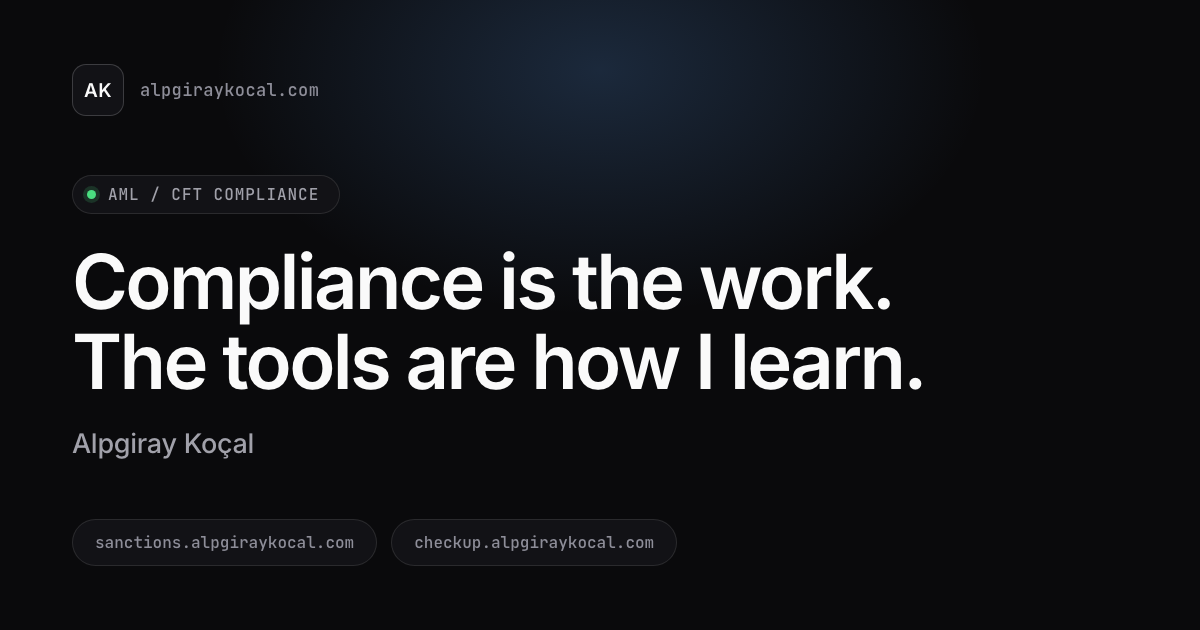
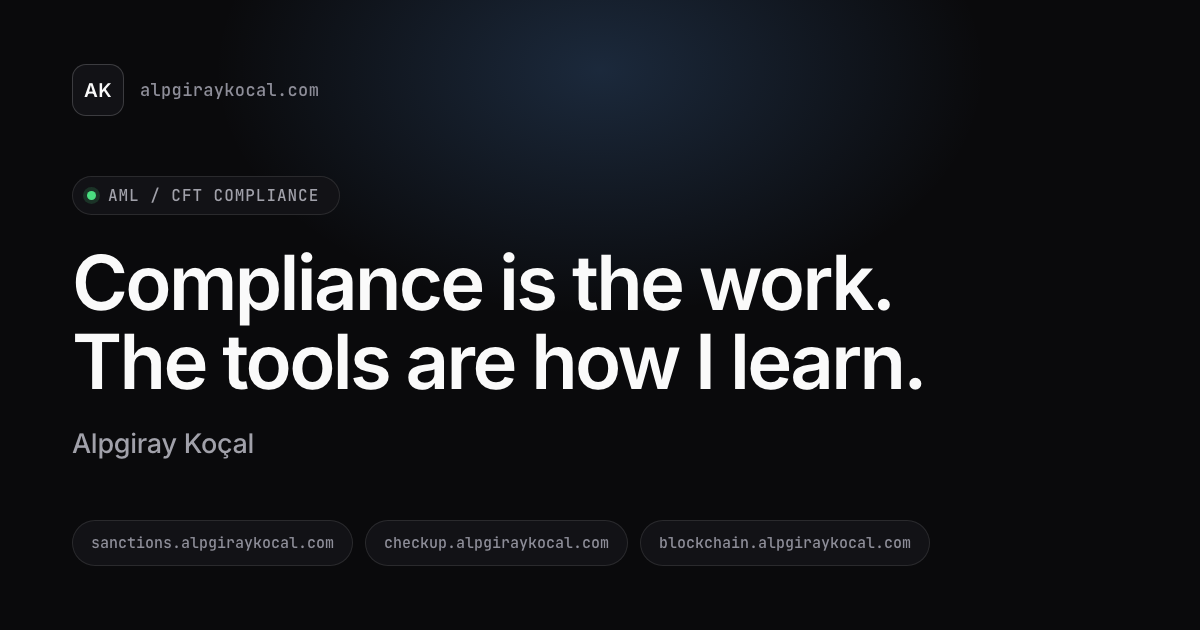
content: add Blockchain Analysis to the experiments
Third card, same shape as the other two: what it does, what it runs on,
and the hostname. Bumps the section count to 03 and rewords the intro,
which was phrased for exactly two items.

Also refreshes og.png with the third hostname chip, and adds blockchain
analytics to the meta description and the Person schema's knowsAbout.

diff --git a/index.html b/index.html
@@ -4,7 +4,7 @@
 <meta charset="utf-8">
 <meta name="viewport" content="width=device-width, initial-scale=1, viewport-fit=cover">
 <title>Alpgiray Koçal — AML/CFT Compliance</title>
-<meta name="description" content="Alpgiray Koçal works in AML/CFT compliance and builds small experiments to learn what new technology can do for the work. Sanctions screening and compliance self-assessment tools. Connect on LinkedIn.">
+<meta name="description" content="Alpgiray Koçal works in AML/CFT compliance and builds small experiments to learn what new technology can do for the work. Sanctions screening, compliance self-assessment and blockchain analytics tools. Connect on LinkedIn.">
 <meta name="author" content="Alpgiray Koçal">
 <meta name="color-scheme" content="dark light">
 <meta name="theme-color" content="#0A0A0C" media="(prefers-color-scheme: dark)">
@@ -54,7 +54,7 @@
   "url": "https://alpgiraykocal.com/",
   "jobTitle": "AML/CFT Compliance",
   "image": "https://alpgiraykocal.com/og.png",
-  "knowsAbout": ["AML/CFT", "Sanctions Screening", "OFAC", "Regulatory Compliance"],
+  "knowsAbout": ["AML/CFT", "Sanctions Screening", "OFAC", "Regulatory Compliance", "Blockchain Analytics"],
   "sameAs": ["https://www.linkedin.com/in/alpgiraykocal/"]
 }
 </script>
@@ -481,11 +481,11 @@ footer .made { font-family: "JetBrains Mono", ui-monospace, SFMono-Regular, Menl
     <section class="section reveal" id="experiments">
       <div class="section-head">
         <h2>Experiments</h2>
-        <span class="count">02</span>
+        <span class="count">03</span>
       </div>
       <p class="section-note">
-        Two things I built and keep running. Neither replaces your own compliance process
-        &mdash; treat whatever they surface as a lead to verify.
+        Three things I built and keep running. None of them replaces your own compliance
+        process &mdash; treat whatever they surface as a lead to verify.
       </p>
 
       <div class="cards">
@@ -534,6 +534,29 @@ footer .made { font-family: "JetBrains Mono", ui-monospace, SFMono-Regular, Menl
             <span class="tag">Risk-based QA</span><span class="tag">TR / EN</span>
           </div>
           <span class="host">checkup.alpgiraykocal.com</span>
+        </a>
+
+        <a class="card" href="https://blockchain.alpgiraykocal.com" target="_blank" rel="noopener noreferrer"
+           aria-label="Blockchain Analysis (opens in a new tab)">
+          <div class="card-top">
+            <h3>
+              <span class="glyph" aria-hidden="true">
+                <svg viewBox="0 0 24 24" fill="none" stroke="currentColor" stroke-linecap="round" stroke-linejoin="round"><circle cx="12" cy="5" r="2.4"/><circle cx="5" cy="18" r="2.4"/><circle cx="19" cy="18" r="2.4"/><path d="M10.6 7.2 6.4 15.6M13.4 7.2l4.2 8.4M7.4 18h9.2"/></svg>
+              </span>
+              Blockchain Analysis
+            </h3>
+            <svg class="arrow" viewBox="0 0 24 24" fill="none" stroke="currentColor" stroke-width="1.75" stroke-linecap="round" stroke-linejoin="round" aria-hidden="true"><path d="M7 17L17 7M8 7h9v9"/></svg>
+          </div>
+          <p>
+            Reads Bitcoin and Ethereum as a graph: transaction flow between addresses,
+            co-spend clustering into entities, attribution tags and an explainable risk score.
+            Runs off live public explorers &mdash; no keys, no accounts, no database.
+          </p>
+          <div class="tags">
+            <span class="tag">BTC / ETH</span><span class="tag">Co-spend clustering</span>
+            <span class="tag">OFAC</span><span class="tag">GraphSense model</span>
+          </div>
+          <span class="host">blockchain.alpgiraykocal.com</span>
         </a>
 
       </div>
